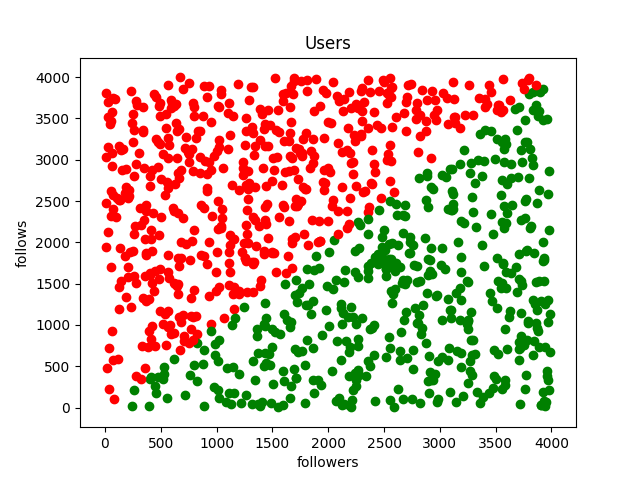
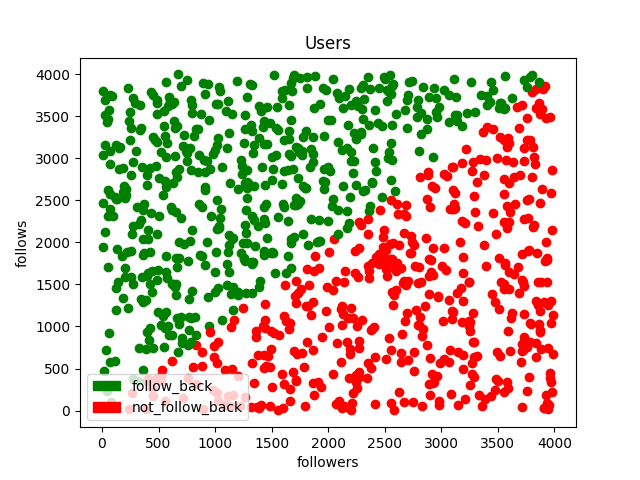
📝 docs: update chart legend

diff --git a/visualization/visualization.py b/visualization/visualization.py
@@ -1,15 +1,21 @@
 # Filippo Finke
 import pandas as pd
 import matplotlib.pyplot as plt
+import matplotlib.patches as mpatches
 import numpy as np
 users = pd.read_csv('../data/data.csv')
 
-colors = {'follow_back':'r', 'not_follow_back':'g'}
+colors = {'follow_back':'g', 'not_follow_back':'r'}
 fig, ax = plt.subplots()
 ax.set_title('Users')
 ax.set_xlabel('followers')
 ax.set_ylabel('follows')
+
 for i in range(len(users)):
     ax.scatter(users['followers'][i], users['follows'][i],color=colors[users['label'][i]])
+
+green_patch = mpatches.Patch(color='green', label='follow_back')
+red_patch = mpatches.Patch(color='red', label='not_follow_back')
+ax.legend(handles=[green_patch, red_patch])
 plt.savefig('users.png')
 plt.show()
